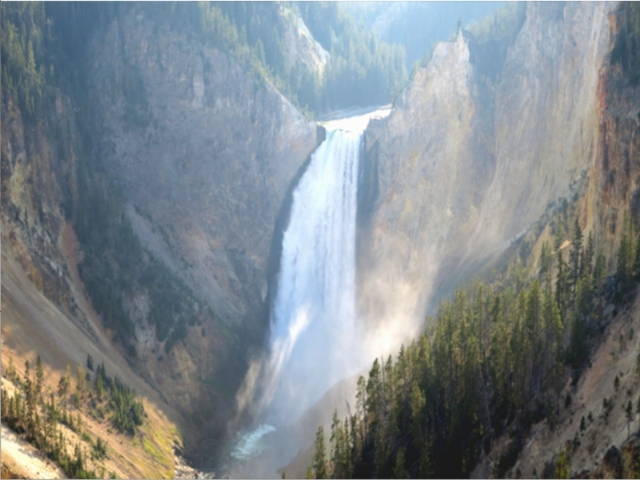
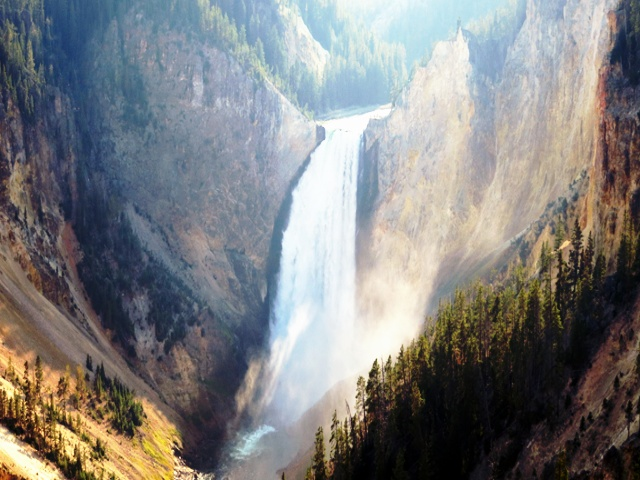
RAME评价指标提交

diff --git a/FomIndexTest/AMEIndexTest.py b/FomIndexTest/AMEIndexTest.py
@@ -1,0 +1,26 @@
+import numpy as np
+from PIL import Image
+
+def calculate_ame(original_image_path, enhanced_image_path):
+    # 读取原始图像和增强后的图像
+    original_image = Image.open(original_image_path)
+    enhanced_image = Image.open(enhanced_image_path)
+
+    # 转换为灰度图像
+    original_image_gray = original_image.convert('L')
+    enhanced_image_gray = enhanced_image.convert('L')
+
+    # 将图像转换为NumPy数组
+    original_array = np.array(original_image_gray)
+    enhanced_array = np.array(enhanced_image_gray)
+
+    # 计算绝对误差，并对所有像素求和
+    abs_error = np.abs(original_array - enhanced_array)
+    ame = np.mean(abs_error)
+
+    return ame
+originalPath = "../resultImages/waterwall/waterfall.jpg"
+enhancePath = "../resultImages/waterwall/waterfall[21].jpg"
+
+result = calculate_ame(originalPath,enhancePath)
+print(result)
